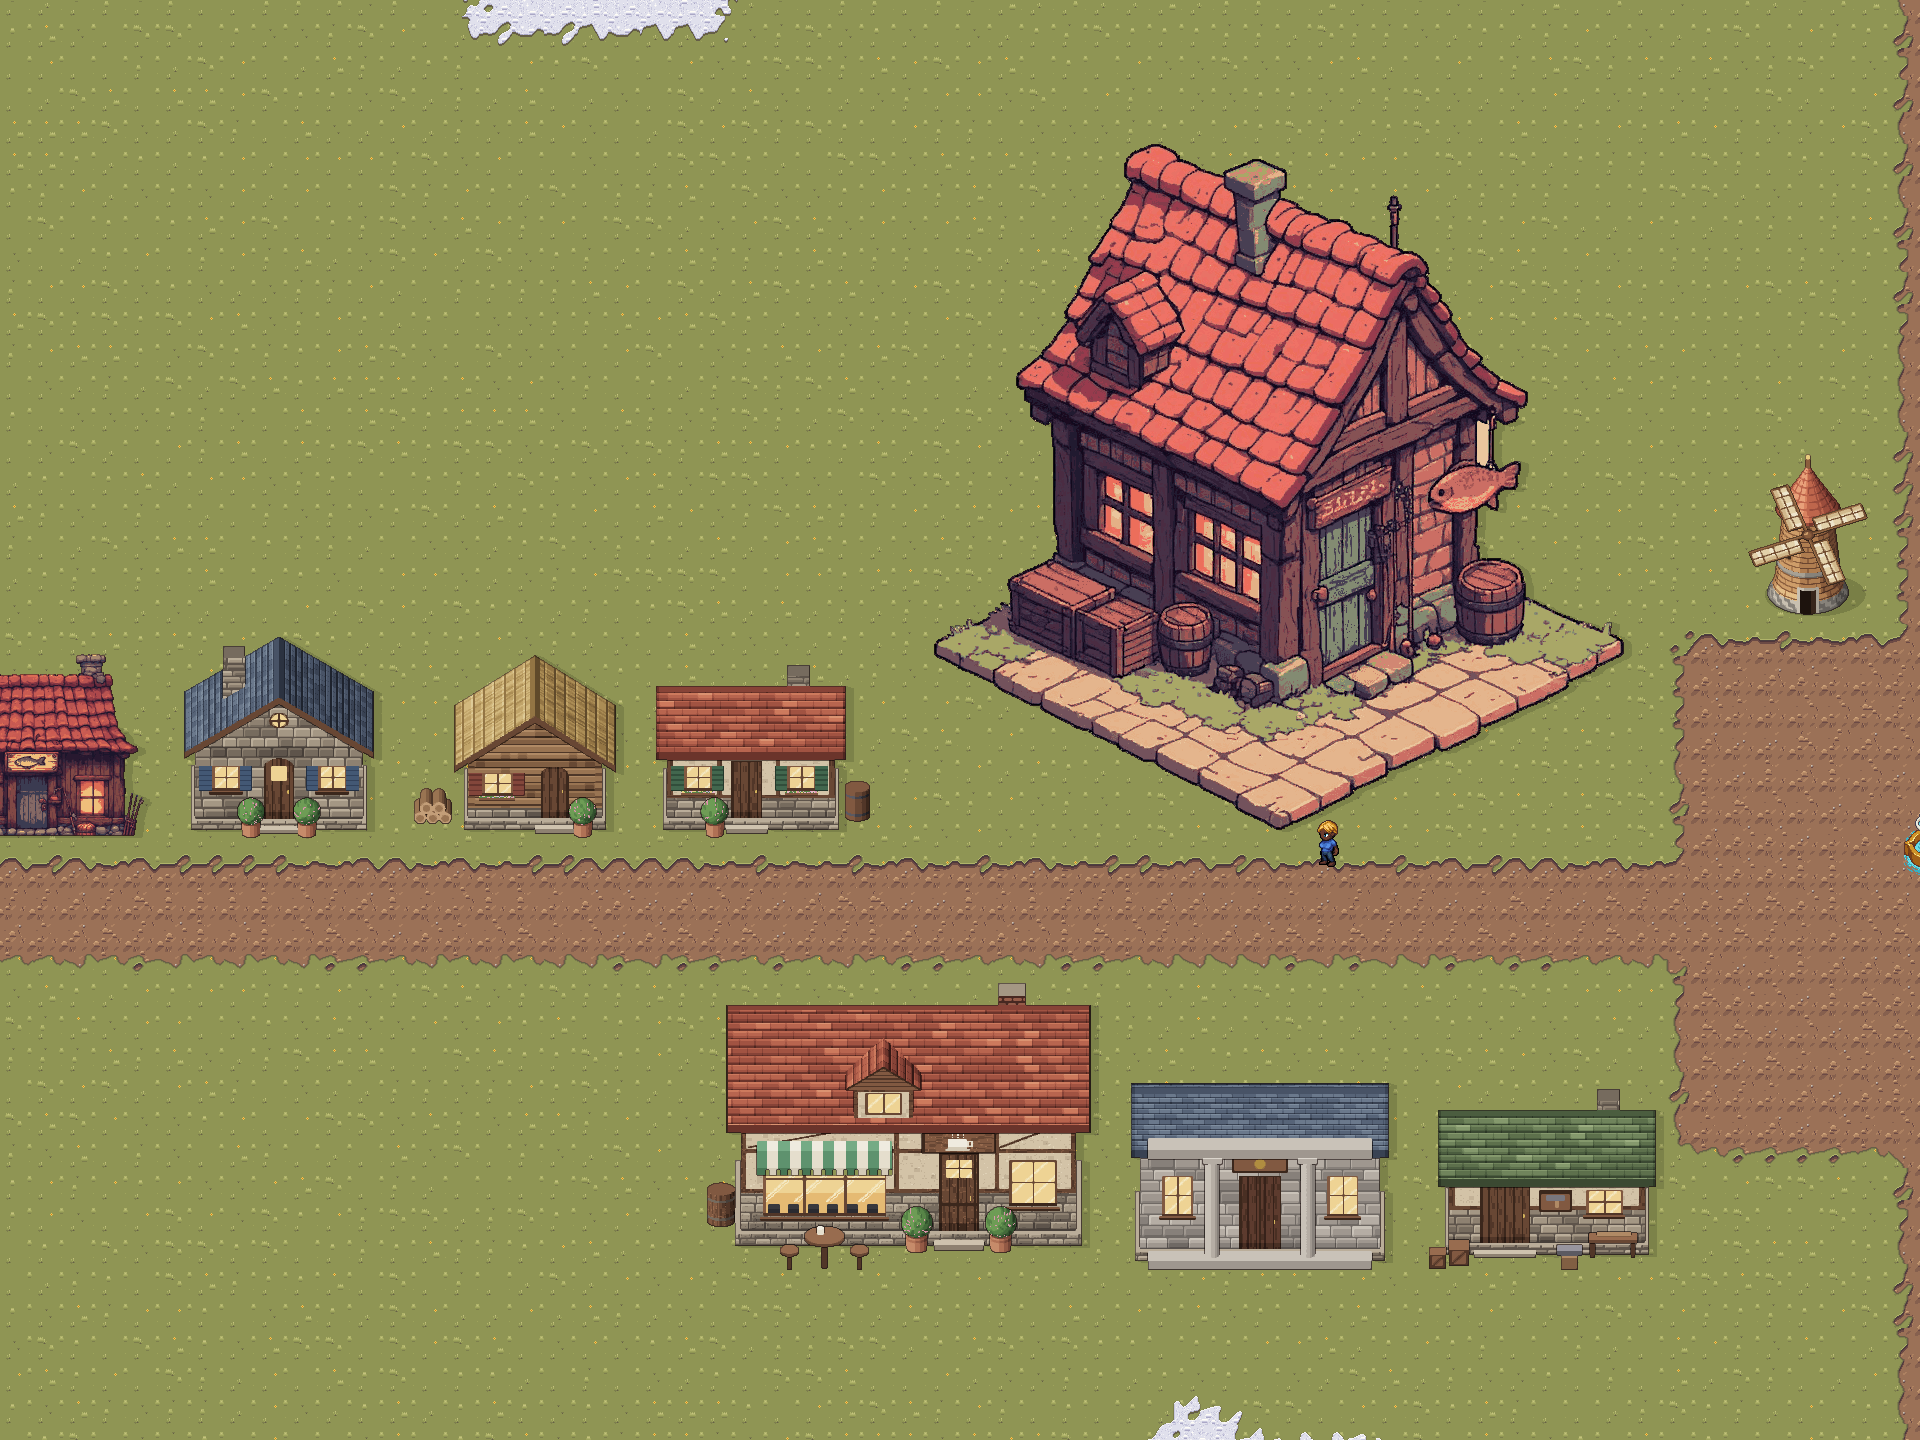
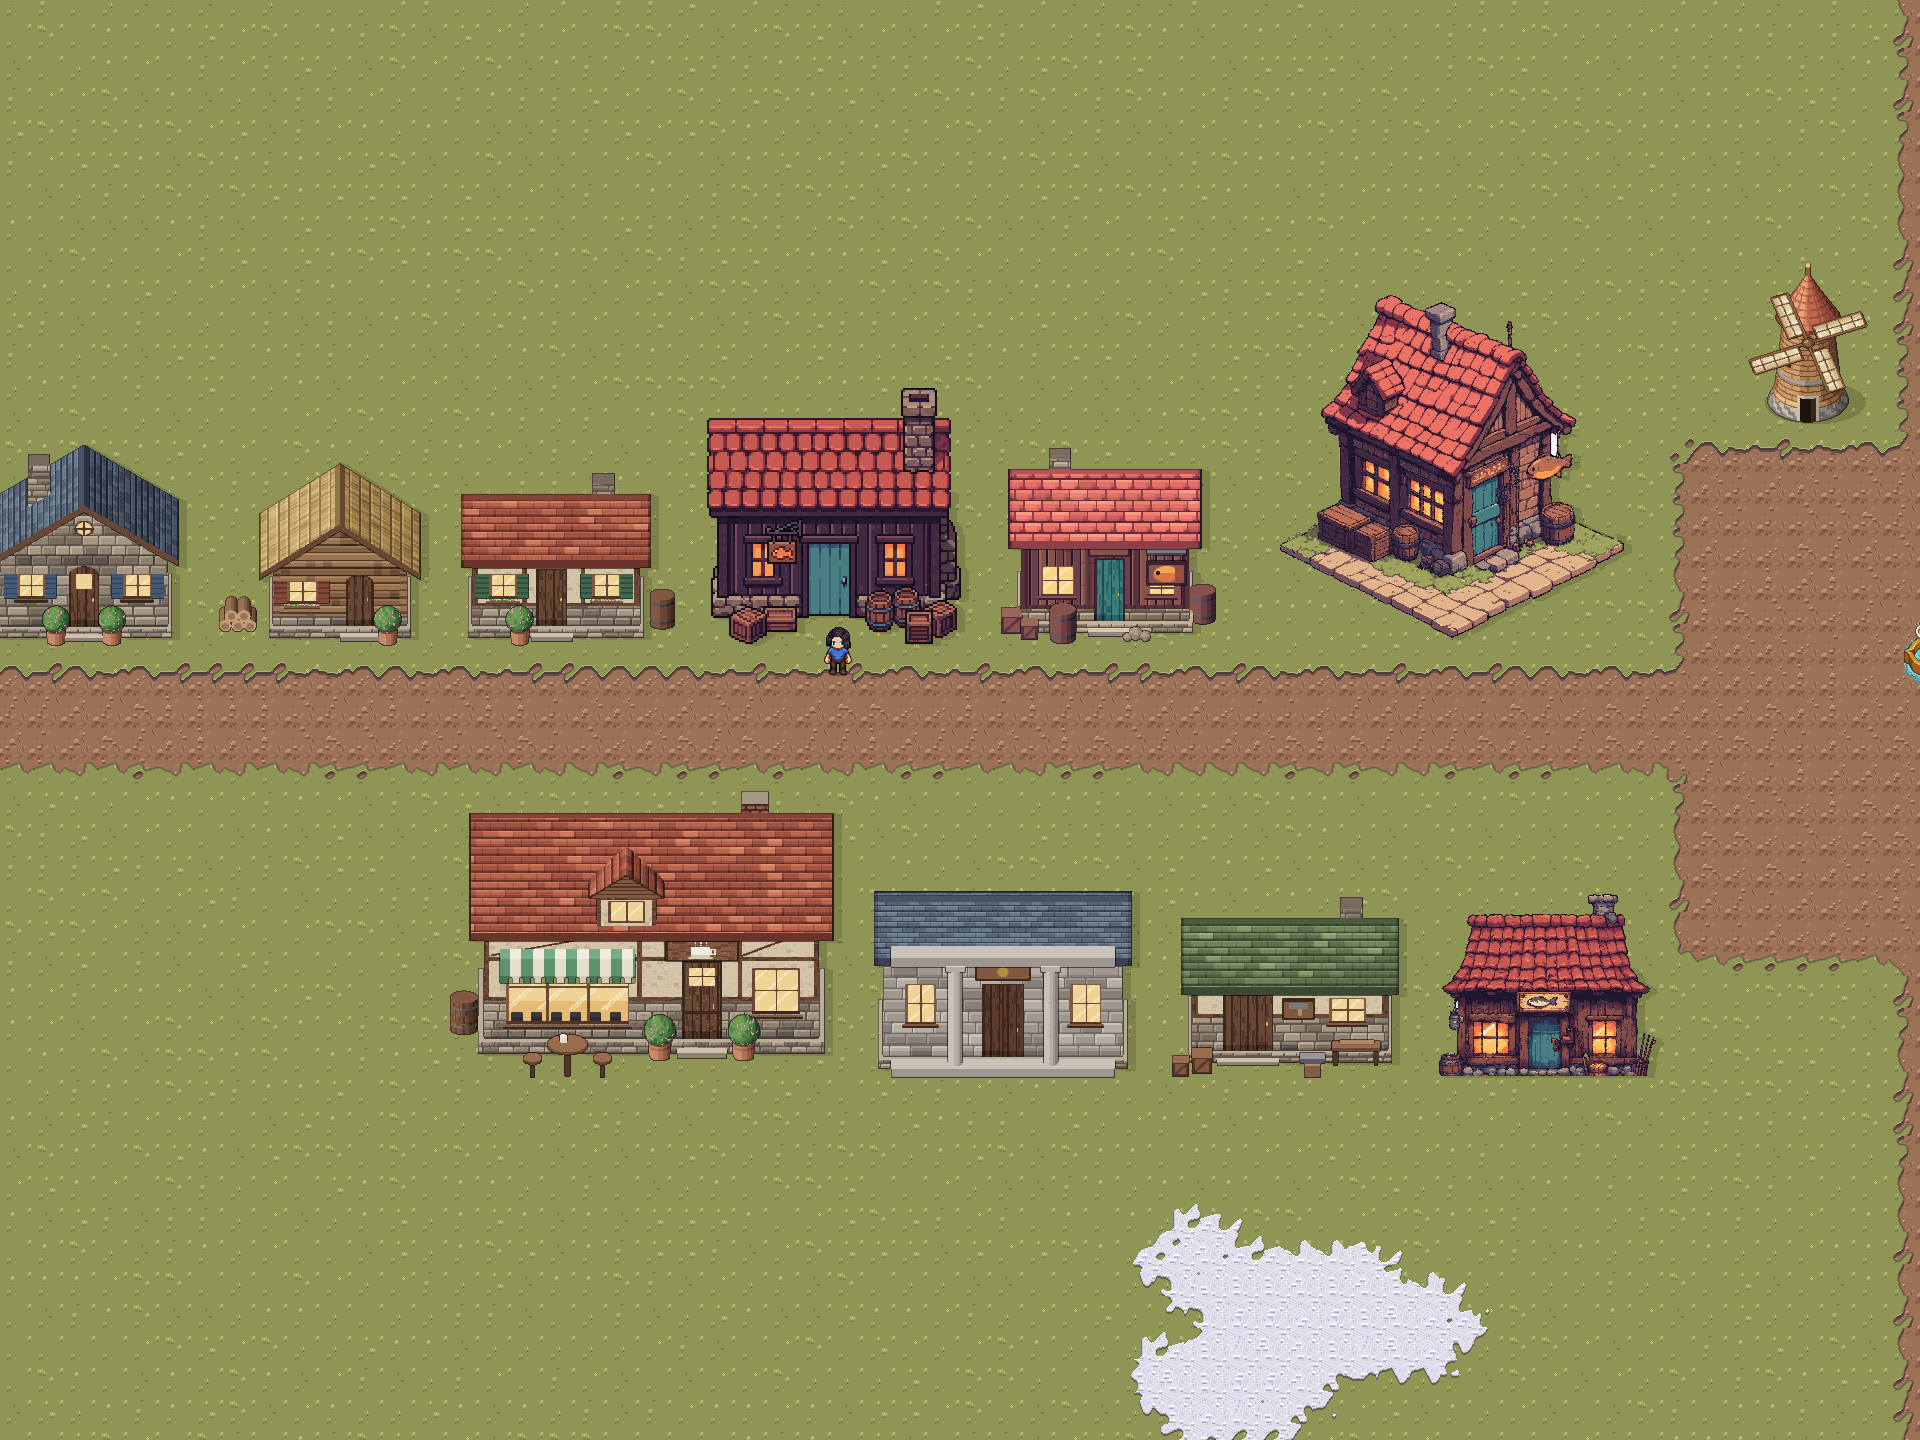
TEMP: Gemini fishing shop beside the other two; first AI shop moves to the south row

diff --git a/client/Assets/Scripts/World/MapView.cs b/client/Assets/Scripts/World/MapView.cs
@@ -179,11 +179,11 @@ namespace CollectionGame.World
         // buildings get real places.
         static readonly (float feetY, string[] paths)[] ArtPreviewRows =
         {
-            (47.5f, new[] { "custom/Buildings/balikci_ai_2.png", "custom/Buildings/balikci.png", "custom/Buildings/ev_siva.png", "custom/Buildings/ev_kutuk.png", "custom/Buildings/ev_tas.png", "custom/Buildings/balikci_ai.png" }),
-            (61f, new[] { "custom/Buildings/atolye.png", "custom/Buildings/banka.png", "custom/Cafe/cafe.png" }),
+            (47.5f, new[] { "custom/Buildings/balikci_ai_2.png", "custom/Buildings/balikci.png", "custom/Buildings/balikci_gemini.png", "custom/Buildings/ev_siva.png", "custom/Buildings/ev_kutuk.png", "custom/Buildings/ev_tas.png" }),
+            (61f, new[] { "custom/Buildings/balikci_ai.png", "custom/Buildings/atolye.png", "custom/Buildings/banka.png", "custom/Cafe/cafe.png" }),
         };
         // Tiles the rows cover (with a margin), kept free of the ground preview's patches.
-        static readonly RectInt[] ArtPreviewArea = { new RectInt(3, 35, 55, 14), new RectInt(20, 51, 38, 11) };
+        static readonly RectInt[] ArtPreviewArea = { new RectInt(3, 35, 55, 14), new RectInt(15, 51, 43, 11) };
 
         void BuildArtPreview() // TEMP art preview
         {
